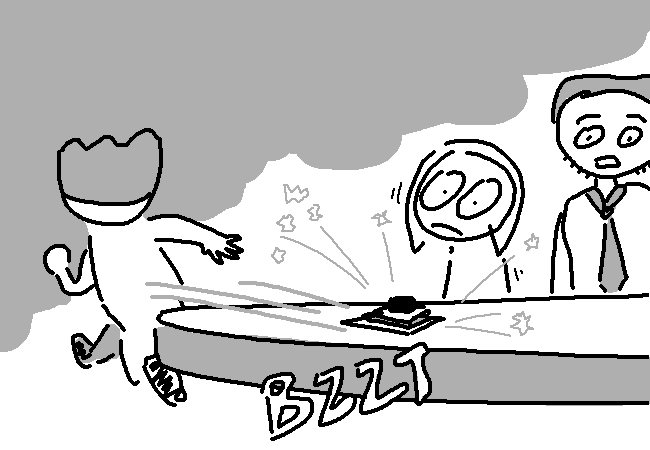
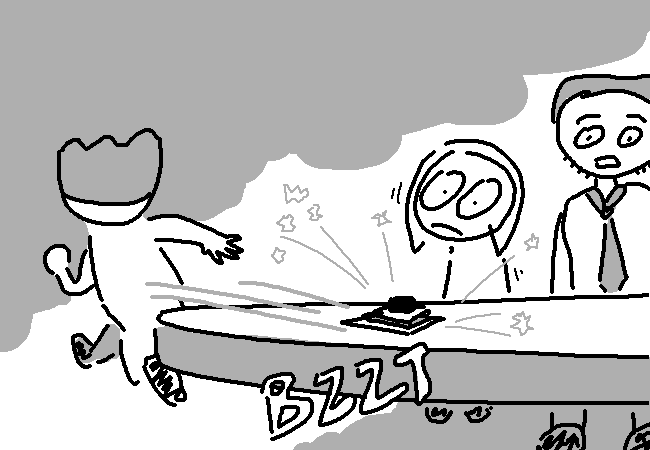
added new page

Changed region(s): [[0.4308, 0.8711, 1.0, 1.0]]

diff --git a/comicdata_34378603.js b/comicdata_34378603.js
@@ -92,12 +92,17 @@ captions[16] = [
 
 captions[17] = [
 "(The nearest adult is that Administrator idly walking around the lunchroom. You get up from the table and grab his attention.)<br><br>Accord: Help! help! Student is being weird!!! Hes being very weird!!!<br><br>Admin: W-wh... huh?? Being... weird... you say? In all my years of working here, nobody has ever done that before... you know we have a zero-tolerance policy on... umm... well... can you tell me what's going on?",
-"Accord: It was him! He telled me I dont belong here! He telled me I'm freak then he started jumping on the table for no reason!!!<br><br>Student: YEA you <i>dont</i> belong here !! you crazy .. I read your post on face space ... you sound like a drugs person!!<br><br>Accord: No I'm are'nt!!!! I'm normal!!<br><br>Admin: ... mh... ummm... ...d-d-drugs...?<br><br>Student: yeah and you dicthed class all day didnt you!! i bet you were out smoking DRUG!!!!<br><br>(The administrator is confused and doesn't know whose story to follow.)" 
+"Accord: It was him! He telled me I dont belong here! He telled me I'm freak then he started jumping on the table for no reason!!!<br><br>Student: YEA you <i>dont</i> belong here !! your crazy .. I read your post on face space ... you sound like a drugs person!!<br><br>Accord: No I'm are'nt!!!! I'm normal!!<br><br>Admin: ... mh... ummm... ...d-d-drugs...?<br><br>Student: yeah and you dicthed class all day didnt you!! i bet you were out smoking DRUG!!!!<br><br>(The administrator is confused and doesn't know whose story to follow.)" 
 ]
 
 captions[18] = [
 "Accord: I did not post that! I did not!! I must have been hacked!! Look!!<br><br>(You take the Emergency Button out of your inventory and lay it out on the table.)<br><br>Accord: I was busy this whole time... umm... fixing the button, for the... for the safety of the school!<br><br>Admin: Why didn't you just... tell one of us it was broken? And what about all those Dootos™ earlier? Was that a part of the repairs too?",
-"With his eyes almost immediately fixed on the button, Student yells out \"ACCORD SUS!!! ACCORD IS THE IMPOSTER!!!\" and smashes the button. The glass covering shatters and bits fly everywhere. He runs away as a horrible shrieking alarm sound blares. The lights begin to dim."
+"With his eyes almost immediately fixed on the button, Student yells out <b>\"ACCORD SUS!!! ACCORD IS THE IMPOSTER!!!\"</b> and smashes the button. The glass covering shatters and bits fly everywhere. He runs away as a horrible shrieking alarm sound blares. The lights begin to dim."
+]
+
+captions[19] = [
+"(The alarm continues sounding louder and louder as everyone huddles around the table to see what's going on)<br><br>Accord: See...? I was right! It works!! I fixed it!! Haha...<br><br>Admin: I don't believe it was ever broken!!",
+"Admin: Now... Honda Accord... you do realize we have a zero-tolerance policy... for any and all subversive behavior...<br><br>If we find that, with the proper evaluation, you truly do not belong here, then... there are a few things which could happen next... We might have to straighten you out and make you normal... or we might have to... mmm... (he pauses)"
 ]
 
 var commands = [ 
@@ -118,7 +123,8 @@ var commands = [
 "escape by noclipping through the floor",
 "act Normal and get your lunch like a Normal Student. Make Normal Small talk with the other Normal students, careful to take Normal sized bites of your food.",
 "Alert the nearest teacher that Student is being *very* weird and we all know that's prohibited.",
-"Claim you must've been hacked, because you've spent the last laborious hour repairing the Emergency Button for the good of the school."
+"Claim you must've been hacked, because you've spent the last laborious hour repairing the Emergency Button for the good of the school.",
+"Point out that, since the button is clearly working, your story checks out."
 ];
 
 class Panel {

diff --git a/10.html b/10.html
@@ -9,6 +9,6 @@
 <body>
 
 <div class="maindiv" id="maindiv">
-<script src="comicdata_93526405.js"></script>
+<script src="comicdata_34378603.js"></script>
 </div>
 </body>

diff --git a/11.html b/11.html
@@ -9,6 +9,6 @@
 <body>
 
 <div class="maindiv" id="maindiv">
-<script src="comicdata_93526405.js"></script>
+<script src="comicdata_34378603.js"></script>
 </div>
 </body>

diff --git a/12.html b/12.html
@@ -9,6 +9,6 @@
 <body>
 
 <div class="maindiv" id="maindiv">
-<script src="comicdata_93526405.js"></script>
+<script src="comicdata_34378603.js"></script>
 </div>
 </body>

diff --git a/13.html b/13.html
@@ -9,6 +9,6 @@
 <body>
 
 <div class="maindiv" id="maindiv">
-<script src="comicdata_93526405.js"></script>
+<script src="comicdata_34378603.js"></script>
 </div>
 </body>

diff --git a/14.html b/14.html
@@ -9,6 +9,6 @@
 <body>
 
 <div class="maindiv" id="maindiv">
-<script src="comicdata_93526405.js"></script>
+<script src="comicdata_34378603.js"></script>
 </div>
 </body>

diff --git a/15.html b/15.html
@@ -9,6 +9,6 @@
 <body>
 
 <div class="maindiv" id="maindiv">
-<script src="comicdata_93526405.js"></script>
+<script src="comicdata_34378603.js"></script>
 </div>
 </body>

diff --git a/16.html b/16.html
@@ -9,6 +9,6 @@
 <body>
 
 <div class="maindiv" id="maindiv">
-<script src="comicdata_93526405.js"></script>
+<script src="comicdata_34378603.js"></script>
 </div>
 </body>

diff --git a/17.html b/17.html
@@ -9,6 +9,6 @@
 <body>
 
 <div class="maindiv" id="maindiv">
-<script src="comicdata_93526405.js"></script>
+<script src="comicdata_34378603.js"></script>
 </div>
 </body>

diff --git a/18.html b/18.html
@@ -9,6 +9,6 @@
 <body>
 
 <div class="maindiv" id="maindiv">
-<script src="comicdata_93526405.js"></script>
+<script src="comicdata_34378603.js"></script>
 </div>
 </body>

diff --git a/2.html b/2.html
@@ -9,6 +9,6 @@
 <body>
 
 <div class="maindiv" id="maindiv">
-<script src="comicdata_93526405.js"></script>
+<script src="comicdata_34378603.js"></script>
 </div>
 </body>

diff --git a/3.html b/3.html
@@ -9,6 +9,6 @@
 <body>
 
 <div class="maindiv" id="maindiv">
-<script src="comicdata_93526405.js"></script>
+<script src="comicdata_34378603.js"></script>
 </div>
 </body>
